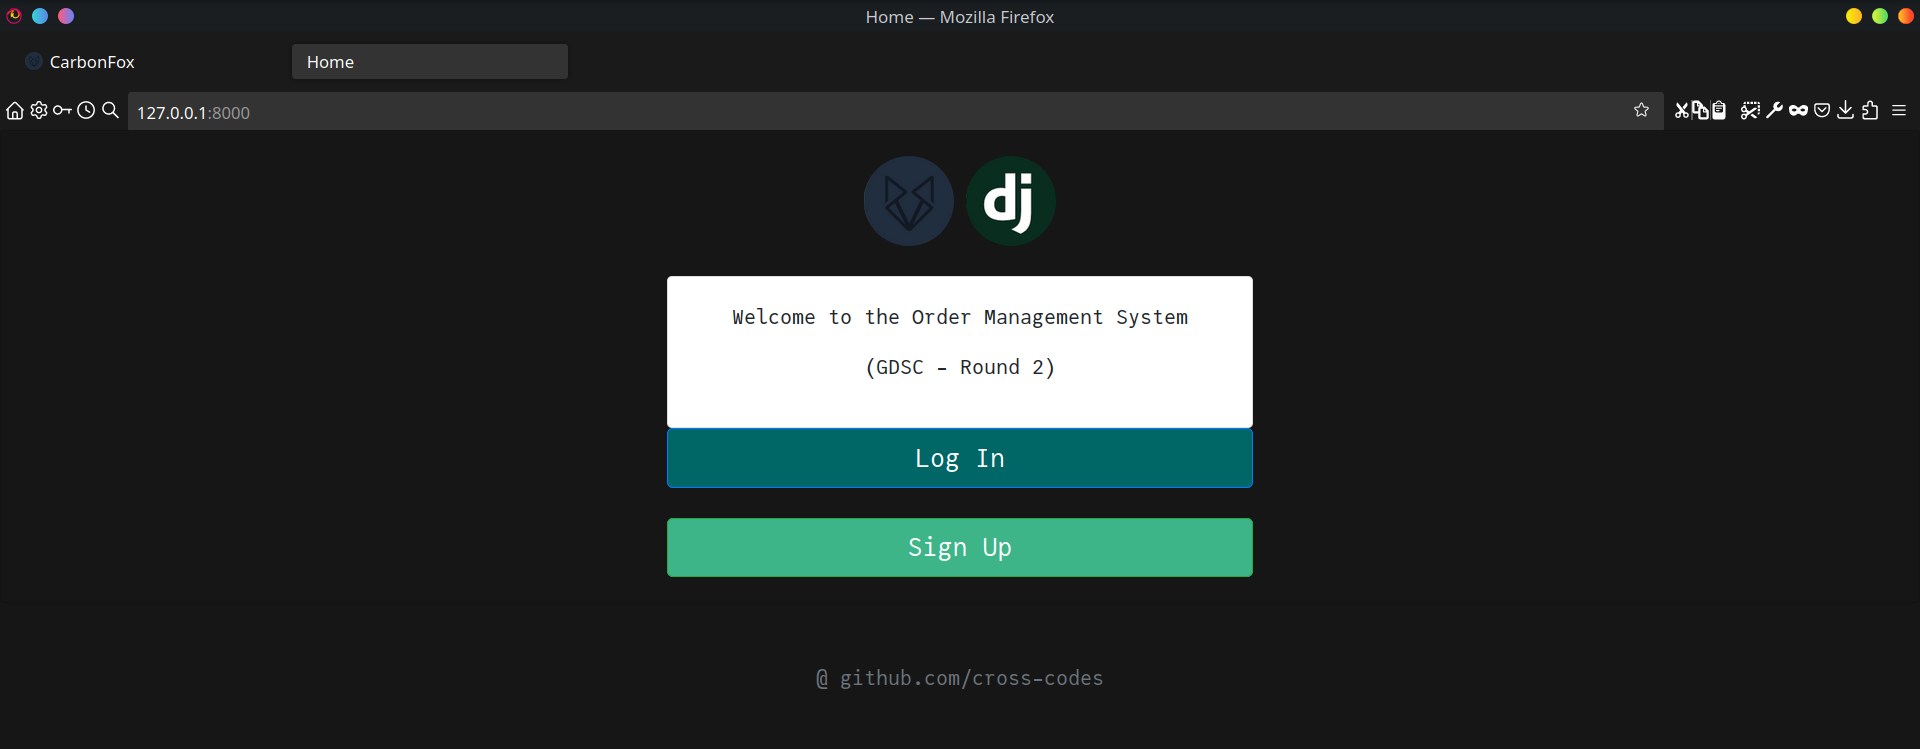
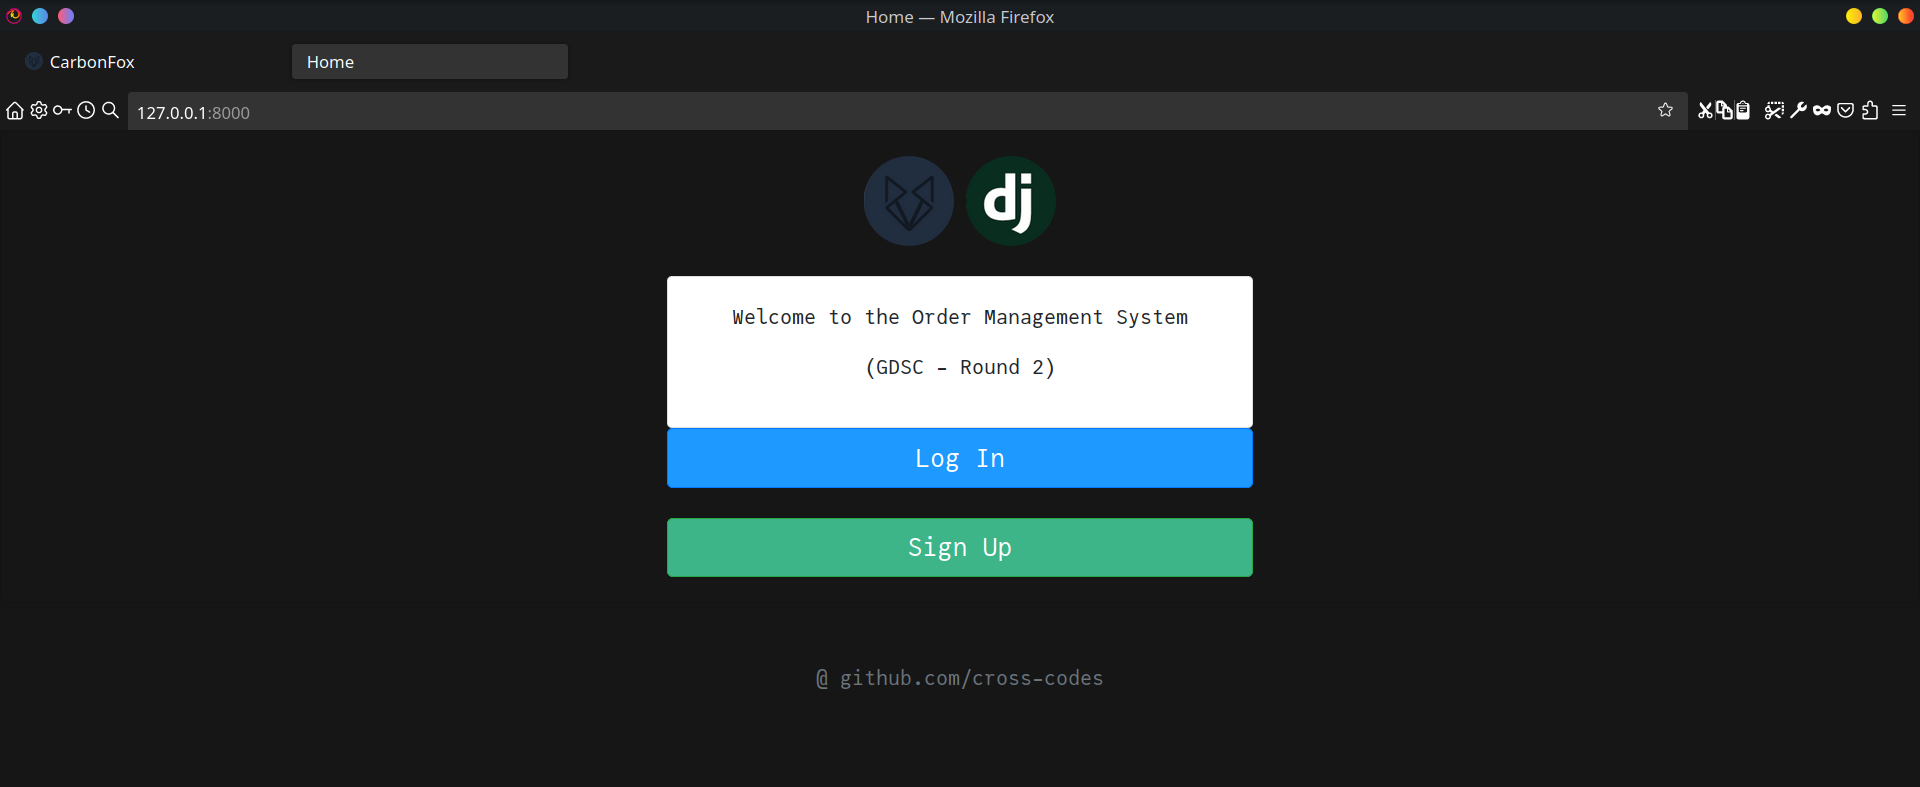
Add new features, update documentation
Added a new feature to update or delete user profile
Modified CSS and button positioning for some pages
Update search query to be able to sort by priority tag
Add more explanations to documentation

diff --git a/order_management/accounts/templates/update_user.html b/order_management/accounts/templates/update_user.html
@@ -1,0 +1,85 @@
+{% load static %}
+<!DOCTYPE html>
+<html lang="en">
+    <head>
+        <meta charset="UTF-8">
+        <meta http-equiv="X-UA-Compatible" content="IE=edge">
+        <meta name="viewport" content="width=device-width, initial-scale=1.0">
+        <link href="{% static 'css/bootstrap.min.css' %}" rel="stylesheet">
+        <link href="{% static 'css/list_orders.css' %}" rel="stylesheet">
+        <title>Update Order</title>
+    </head>
+    <body style="background-color: #161616;">
+        <div class="container mt-5">
+            <div class="row justify-content-center">
+                <div class="col-md-8">
+                    <div class="text-center">
+                        <img class="mb-4"
+                             src="{% static 'img/banner.png' %}"
+                             alt=""
+                             width="72"
+                             height="72">
+                        <img class="mb-4"
+                             src="{% static 'img/django.png' %}"
+                             alt=""
+                             width="72"
+                             height="72">
+                    </div>
+                    <h2 class="text-center" style="color: #FFFFFF;">Update details</h2>
+                    <form method="post" action="">
+                        {% csrf_token %}
+                        <div class="form-group" style="color: #FFFFFF;">
+                            <label for="{{ form.first_name.id_for_label }}">First name:</label>
+                            <input class="form-control"
+                                   type="text"
+                                   name="{{ form.first_name.name }}"
+                                   value="{{ form.first_name.initial|default:'' }}"
+                                   id="{{ form.first_name.id_for_label }}"
+                                   required>
+                        </div>
+                        <div class="form-group" style="color: #FFFFFF;">
+                            <label for="{{ form.last_name.id_for_label }}">Last name:</label>
+                            <input class="form-control"
+                                   type="text"
+                                   name="{{ form.last_name.name }}"
+                                   value="{{ form.last_name.initial|default:'' }}"
+                                   id="{{ form.last_name.id_for_label }}">
+                        </div>
+                        <div class="form-group" style="color: #FFFFFF;">
+                            <label for="{{ form.email.id_for_label }}">Email:</label>
+                            <input class="form-control"
+                                   type="text"
+                                   name="{{ form.email.name }}"
+                                   value="{{ form.email.initial|default:'' }}"
+                                   id="{{ form.email.id_for_label }}"
+                                   required>
+                        </div>
+                        <button class="btn btn-success btn-lg btn-block" type="submit">Save changes</button>
+                    </form>
+                    <br>
+                    <div class="container mt-2">
+                        <div class="row justify-content-center">
+                            <div class="col-lg-4">
+                                <form method="get" action="{% url 'accounts:remove_user' user.id %}">
+                                    <button class="btn btn-alert btn-block" type="submit">Delete Profile</button>
+                                </form>
+                            </div>
+                            <div class="col-lg-4">
+                                <form method="get" action="{% url 'home' %}">
+                                    <button class="btn btn-primary btn-block home" type="submit">Return to homepage</button>
+                                </form>
+                            </div>
+                            <div class="col-lg-4">
+                                <form method="post" action="{% url 'logout' %}">
+                                    {% csrf_token %}
+                                    <button class="btn btn-danger btn-block" type="submit">Logout</button>
+                                </form>
+                            </div>
+                        </div>
+                    </div>
+                </div>
+            </div>
+        </div>
+        <p class="mt-5 mb-3 text-muted text-center">@ github.com/cross-codes</p>
+    </body>
+</html>

diff --git a/order_management/orders/templates/list_orders.html b/order_management/orders/templates/list_orders.html
@@ -30,12 +30,27 @@
                         <div class="row justify-content-center" style="color: #FFFFFF">
                             {{ search_form.as_p }}
                             <div class="col-4">
+                                <select class="form-select" name="priority">
+                                    <option value="" selected>Search by priority (Default: All)</option>
+                                    <option value="Default">All matches (High -> Low)</option>
+                                    <option value="Low">Low</option>
+                                    <option value="Medium">Medium</option>
+                                    <option value="High">High</option>
+                                </select>
+                            </div>
+                            <div class="col-4 text-center">
                                 <button class="btn btn-primary btn-sm" type="submit">Fuzzy Search</button>
                             </div>
                         </div>
+                        <br>
                     </form>
                     <div class="container mt-2">
                         <div class="row justify-content-center">
+                            <div class="col-lg-4">
+                                <form method="get" action="{% url 'orders:create-order' %}">
+                                    <button class="btn btn-success" type="submit">Add order to the list</button>
+                                </form>
+                            </div>
                             <div class="col-lg-4">
                                 <form method="get" action="{% url 'home' %}">
                                     <button class="btn btn-secondary btn-block home" type="submit">Return to homepage</button>
@@ -86,9 +101,6 @@
                                     <p>You have no orders</p>
                                 {% endfor %}
                             </ul>
-                            <form method="get" action="{% url 'orders:create-order' %}">
-                                <button class="btn btn-success" type="submit">Add an order</button>
-                            </form>
                         </div>
                     </div>
                 </div>

diff --git a/order_management/templates/home.html b/order_management/templates/home.html
@@ -38,15 +38,21 @@
                                 <p>
                                     <strong>First Name:</strong> {{ user.first_name }}
                                 </p>
-                                <p>
-                                    <strong>Last Name:</strong> {{ user.last_name }}
-                                </p>
+                                {% if user.last_name %}
+                                    <p>
+                                        <strong>Last Name:</strong> {{ user.last_name }}
+                                    </p>
+                                {% endif %}
                                 <p>
                                     <strong>Email:</strong> {{ user.email }}
                                 </p>
                                 <p>
                                     <strong>Order Count:</strong> {% user_order_count user %}
                                 </p>
+                                <form method="get" action="{% url 'accounts:update_profile' user.id %}">
+                                    {% csrf_token %}
+                                    <button class="btn btn-primary btn-block btn-lg update_profile" type="submit">Update profile</button>
+                                </form>
                             </div>
                         </div>
                         <br>

diff --git a/order_management/orders/templates/search_results.html b/order_management/orders/templates/search_results.html
@@ -30,9 +30,19 @@
                         <div class="row justify-content-center" style="color: #FFFFFF";>
                             {{ search_form.as_p }}
                             <div class="col-4">
+                                <select class="form-select" name="priority">
+                                    <option value="" selected>Search by priority (Default: All)</option>
+                                    <option value="Default">All matches (High -> Low)</option>
+                                    <option value="Low">Low</option>
+                                    <option value="Medium">Medium</option>
+                                    <option value="High">High</option>
+                                </select>
+                            </div>
+                            <div class="col-4 text-center">
                                 <button class="btn btn-primary btn-sm" type="submit">Fuzzy Search</button>
                             </div>
                         </div>
+                        <br>
                     </form>
                     <div class="container mt-2">
                         <div class="row justify-content-center">

diff --git a/order_management/static/css/buttons.css b/order_management/static/css/buttons.css
@@ -1,14 +1,14 @@
 .login {
-  background-color: #006666;
+  background-color: #1e99ff;
   transition: background-color 0.3s;
 }
 
 .login:hover {
-  background-color: #008888;
+  background-color: #1e90ff;
 }
 
 .login:active {
-  background-color: #008888;
+  background-color: #0000cd;
 }
 
 .signup {
@@ -35,4 +35,17 @@
 
 .home:active {
   background-color: #ccffff;
+}
+
+.update_profile {
+  background-color: #eaa000;
+  transition: background-color 0.3s;
+}
+
+.update_profile:hover {
+  background-color: #ffa500;
+}
+
+.update_profile:active {
+  background-color: #ff6347;
 }

diff --git a/order_management/orders/views.py b/order_management/orders/views.py
@@ -26,16 +26,37 @@ def create_order(request):
 def list_orders(request):
     orders = Order.objects.filter(user=request.user)
     search_form = OrderSearchForm(request.GET)
+    fuzz_pratio_threshold = 75
 
     if search_form.is_valid():
         search_query = search_form.cleaned_data.get("search_query").lower()
+        priority = request.GET.get("priority")
         if search_query:
-            orders = [
-                order
-                for order in orders
-                if fuzz.partial_ratio(search_query, order.title.lower()) >= 75
-            ]
-            context = {"orders": orders, "search_form": search_form}
+            if priority in {"Low", "Medium", "High"}:
+                orders = [
+                    order
+                    for order in orders
+                    if order.pr_tag == priority.upper()
+                    and fuzz.partial_ratio(search_query, order.title.lower())
+                    >= fuzz_pratio_threshold
+                ]
+            else:
+                orders = sorted(
+                    [
+                        order
+                        for order in orders
+                        if fuzz.partial_ratio(search_query, order.title.lower())
+                        >= fuzz_pratio_threshold
+                    ],
+                    key=lambda order: {"LOW": 3, "MEDIUM": 2, "HIGH": 1}.get(
+                        order.pr_tag, 1
+                    ),
+                )
+
+            context = {
+                "orders": orders,
+                "search_form": search_form,
+            }
             return render(
                 request,
                 "search_results.html",

diff --git a/order_management/accounts/views.py b/order_management/accounts/views.py
@@ -1,5 +1,8 @@
-from django.shortcuts import render, redirect
-from .forms import UserCreationFormCustom
+from django.contrib.auth.decorators import login_required
+from django.contrib.auth.models import User
+from django.http import HttpResponseForbidden
+from django.shortcuts import get_object_or_404, render, redirect
+from .forms import UserCreationFormCustom, UserUpdationForm
 
 
 def signup(request):
@@ -13,3 +16,41 @@ def signup(request):
         form = UserCreationFormCustom()
     context = {"form": form}
     return render(request, "signup.html", context)
+
+
+@login_required
+def update_profile(request, user_id):
+    user = get_object_or_404(User, id=user_id)
+
+    if user != request.user:
+        return HttpResponseForbidden(
+            "You cannot edit this user (Reason: Invalid credentials)"
+        )
+
+    if request.method == "POST":
+        form = UserUpdationForm(
+            request.POST,
+            instance=user,
+        )
+        if form.is_valid():
+            form.save()
+            return redirect("home")
+    else:
+        form = UserUpdationForm(
+            instance=user,
+            initial={
+                "First Name": user.first_name,
+                "Last Name": user.last_name,
+                "Email": user.email,
+            },
+        )
+    context = {"form": form}
+    return render(request, "update_user.html", context)
+
+
+@login_required
+def remove_user(request, user_id):
+    user = get_object_or_404(User, id=user_id)
+    if user == request.user:
+        user.delete()
+    return redirect("home")

diff --git a/order_management/accounts/urls.py b/order_management/accounts/urls.py
@@ -5,4 +5,6 @@ from . import views
 app_name = "accounts"
 urlpatterns = [
     path("signup/", views.signup, name="signup"),
+    path("userupdate/<int:user_id>", views.update_profile, name="update_profile"),
+    path("removeuser/<int:user_id>", views.remove_user, name="remove_user"),
 ]

diff --git a/order_management/accounts/forms.py b/order_management/accounts/forms.py
@@ -53,3 +53,9 @@ class UserCreationFormCustom(UserCreationForm):
             user.save()
 
         return user
+
+
+class UserUpdationForm(forms.ModelForm):
+    class Meta:
+        model = User
+        fields = ["first_name", "last_name", "email"]

diff --git a/.github/README.md b/.github/README.md
@@ -51,9 +51,28 @@ and then visit [localhost at port 8000](http://127.0.0.1:8000/) to view the webs
 
 ## Note
 
-The `settings.py` file has `DEBUG=True`, so if you wish to use a production
+(1) The fuzzy search implementation uses the `fuzzywuzzy` library along with `Levenshtein`
+to select matching orders. By default, the orders are chosen if the partial ratio is more
+than 75%, and then additionally are sorted from high to low priority.
+
+If you wish to modify the partial ratio threshold, update the `fuzz_pratio_threshold` variable
+inside the `list_orders` view within the file `📁 order_management/orders/views.py`:
+
+```python
+@login_required
+def list_orders(request):
+    orders = Order.objects.filter(user=request.user)
+    search_form = OrderSearchForm(request.GET)
+    fuzz_pratio_threshold = 75 # Update this value
+
+    ...
+```
+
+For example, if you want a one-to-one string match, set the variable to `100`
+
+(2) The `settings.py` file has `DEBUG=True`, so if you wish to use a production
 server, set this to `False`. However, in doing so, the static files at
-`📁order_management/static` will NOT be served,
+`📁 order_management/static` will NOT be served,
 so consider configuring your `nginx` or `caddy` server to serve these correctly.
 Alternatively, consider using the `whitenoise` library if you do not want to
 configure a separate server.
@@ -83,6 +102,10 @@ Fuzzy search result:
 Updation form:
 
 ![updation query](./img/odm-6.png)
+
+User updation form:
+
+![user updation query](./img/odm-7.png)
 
 </details>
 
